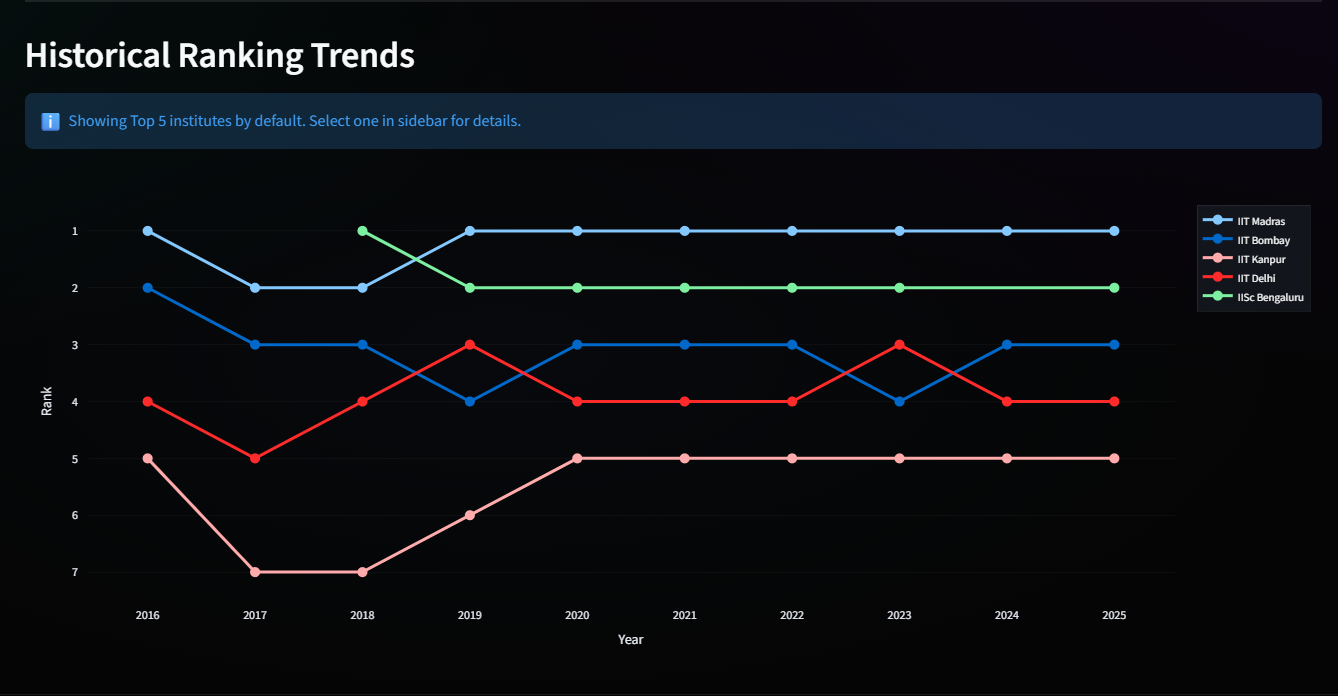
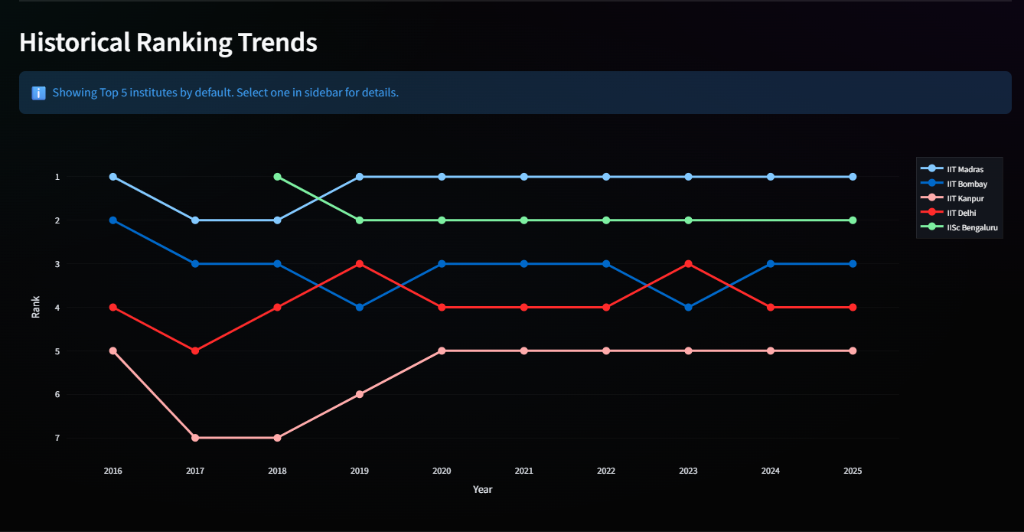
Updated dashboard visuals and README

diff --git a/app.py b/app.py
@@ -485,7 +485,15 @@ with tab_overview:
         st.divider()
         st.subheader(f"🏆 Top {top_n} Institutes by Overall Score")
         
-        top_n_df = filtered_df.sort_values("Score", ascending=False).drop_duplicates("Institute Name").head(top_n).reset_index(drop=True).copy()
+        # Dynamically use the latest available year if "All Years" is selected
+        top_n_df = filtered_df.copy()
+        if selected_year == "All Years" and not top_n_df.empty:
+            latest_year = top_n_df["Year"].max()
+            top_n_df = top_n_df[top_n_df["Year"] == latest_year]
+        
+        top_n_df["Display_Alias"] = top_n_df["Institute Name"].apply(apply_short_alias)
+        top_n_df = top_n_df.sort_values("Score", ascending=False).drop_duplicates("Display_Alias").head(top_n).reset_index(drop=True)
+        
         if not top_n_df.empty:
             top_n_df["Chart_Rank"] = range(1, len(top_n_df) + 1)
             top_n_df["Y_Label"] = top_n_df.apply(lambda r: ranked_label(r["Chart_Rank"], r["Institute Name"]), axis=1)
@@ -515,7 +523,10 @@ with tab_state:
             st.plotly_chart(fig, use_container_width=True)
         with sr:
             st.subheader(f"Avg Score (Top {top_n} Institutes)")
-            top_state_df = filtered_df.sort_values("Score", ascending=False).drop_duplicates("Institute Name").head(top_n)
+            # Consistently prioritize latest year and unique institutes using aliases for state-wise top N
+            top_state_df = filtered_df.copy()
+            top_state_df["Display_Alias"] = top_state_df["Institute Name"].apply(apply_short_alias)
+            top_state_df = top_state_df.sort_values(["Year", "Score"], ascending=[False, False]).drop_duplicates("Display_Alias").head(top_n)
             avg = top_state_df.groupby("State")["Score"].mean().reset_index().sort_values("Score", ascending=True)
             fig = px.bar(avg, x="Score", y="State", orientation="h", color="Score", color_continuous_scale="Blues", text="Score")
             fig.update_layout(

diff --git a/README.md b/README.md
@@ -65,12 +65,30 @@ The dashboard includes multiple visualization techniques for better analysis and
 
 ---
 
+## Dashboard Screenshots
+
+### Dashboard Overview
+![Dashboard Overview](screenshots/dashboard-overview.png)
+
+### Score Analysis
+![Score Analysis](screenshots/score-analysis.png)
+
+### Ranking Trends
+![Ranking Trends](screenshots/ranking-trends.png)
+
+### State Analysis
+![State Analysis](screenshots/state-analysis.png)
+
+
+---
+
 ## Project Structure
 
 ```bash
 nirf-ranking-dashboard/
 │
 ├── data/
+├── screenshots/
 ├── app.py
 ├── preprocessing.py
 ├── requirements.txt
